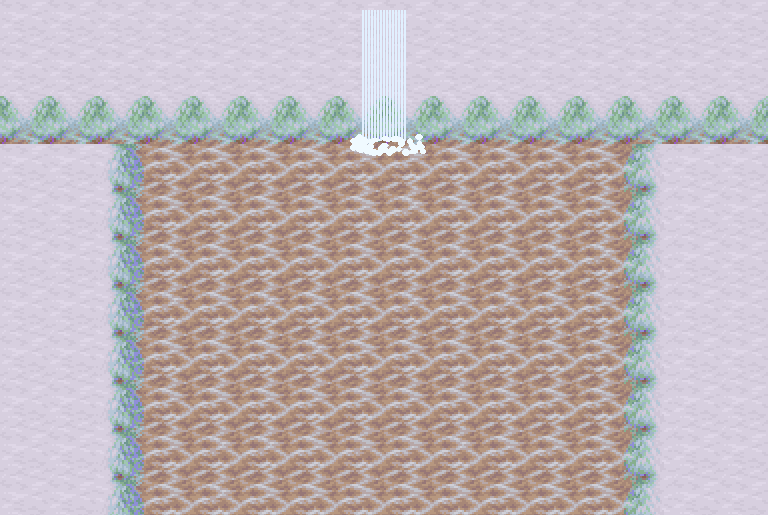
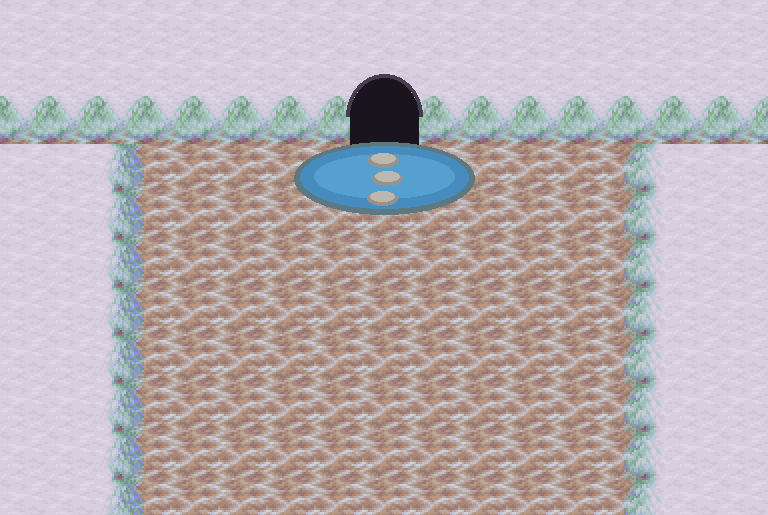
Interfaz: pantalla más grande, información dentro

Changed region(s): [[0.375, 0.0, 0.625, 0.435]]

diff --git a/client/js/game.js b/client/js/game.js
@@ -583,7 +583,7 @@ function openHubMenu() {
 function openHubBag() {
   const bag = meta.bag || [];
   if (!bag.length) return openDialog([{ who: '', text: 'Tu bolsa está vacía. Lo que lleves en ella te acompaña a la próxima exploración.' }], openHubMenu);
-  openMenu({ title: `Bolsa ${bag.length}/${bagSizeFor(meta?.rankPts)}`, items: bag.map(n => isMachine(n) ? `${n.slice(0, 2)}: ${n.slice(4)}` : n), onCancel: openHubMenu,
+  openMenu({ title: `Bolsa ${bag.length}/${bagSizeFor(meta?.rankPts)}`, money: meta?.pokes || 0, items: bag.map(n => isMachine(n) ? `${n.slice(0, 2)}: ${n.slice(4)}` : n), onCancel: openHubMenu,
     onSelect: i => openDialog([{ who: '', text: itemInfo(bag[i]) }], openHubBag) });
 }
 function openHubPokemon() {
@@ -2661,7 +2661,7 @@ function itemInfo(name) {
 }
 function openBagMenu() {
   const items = [...state.inventory.map(n => isMachine(n) ? `${n.slice(0, 2)}: ${n.slice(4)}` : n), state.player.held ? `[Equipado] ${state.player.held} — quitar` : '[Nada equipado]'];   // las máquinas, con su disco
-  openMenu({ title: `Bolsa ${state.inventory.length}/${bagSizeFor(meta?.rankPts)}`, items, onSelect: j => {
+  openMenu({ title: `Bolsa ${state.inventory.length}/${bagSizeFor(meta?.rankPts)}`, money: state.runPokes || 0, items, onSelect: j => {
     if (j < state.inventory.length) return openItemMenu(j);
     if (state.player.held && state.inventory.length < bagSizeFor(meta?.rankPts)) { state.inventory.push(state.player.held); say(`Te quitas ${state.player.held}.`); state.player.held = null; }
     render();
@@ -2822,7 +2822,7 @@ function applyScale() {
   else if (pref === 'fit') {
     // lo más grande que quepa: ancho libre junto al panel lateral y alto libre entre cabecera y pie
     const aside = document.querySelector('#screen-game aside'), head = document.querySelector('#screen-game header'), foot = document.querySelector('#screen-game footer');
-    const freeW = window.innerWidth - (aside?.offsetWidth || 0) - 60, freeH = window.innerHeight - (head?.offsetHeight || 0) - (foot?.offsetHeight || 0) - 40;
+    const fuera = infoMode() === 'fuera', freeW = window.innerWidth - (fuera ? (aside?.offsetWidth || 0) + 60 : 24), freeH = window.innerHeight - (head?.offsetHeight || 0) - (foot?.offsetHeight || 0) - (fuera ? 40 : 16);
     s = Math.max(1, Math.min(freeW / LOG.w, freeH / LOG.h));
   } else s = +pref;
   canvas.style.width = Math.round(LOG.w * s) + 'px'; canvas.style.height = Math.round(LOG.h * s) + 'px';
@@ -2849,10 +2849,15 @@ const isVisibleNow = (x, y) => {
 };
 // radio de luz en los pasillos (en las salas se ve la sala entera)
 function corridorSight() { return WEATHER[state.weather]?.sight ?? CFG.corridorSight; }
-function render() { if (!state.player && state.scene === 'dungeon') return; ctx.setTransform(RK, 0, 0, RK, 0, 0); state.scene === 'hub' ? renderHub() : renderDungeon(); drawFlash(); renderFeed(); renderMenu(); renderDialog(); renderHud(); }
+function render() { if (!state.player && state.scene === 'dungeon') return; ctx.setTransform(RK, 0, 0, RK, 0, 0); state.scene === 'hub' ? renderHub() : renderDungeon(); drawInfoHud(); drawFlash(); renderFeed(); renderMenu(); renderDialog(); renderHud(); }
 // ---- mensajes dentro de la pantalla (como en Mundo Misterioso): recuadro abajo que se desvanece a los pocos segundos ----
 const FEED_MS = 4200, FEED_FADE = 600;
+// dónde va la información (PS, Barriga, mensajes…): dentro de la pantalla del juego (por defecto, como en el original), fuera u oculta
+const infoMode = () => { try { return localStorage.getItem('mm_info') || 'dentro'; } catch { return 'dentro'; } };
+const applyInfoMode = () => { const m = infoMode(); for (const k of ['dentro', 'fuera', 'oculta']) document.body.classList.toggle('info-' + k, m === k); };
+const MONEY_IMG = Object.assign(new Image(), { src: 'client/assets/items/money.png' });   // el icono de los Pokés (PMDCollab)
 const logInside = () => {   // por defecto, fuera (debajo del juego, como la pantalla de abajo de la DS); con el móvil tumbado no hay sitio: dentro
+  if (infoMode() !== 'fuera') return true;   // con la información dentro (o oculta), los mensajes también van dentro
   if (document.body.classList.contains('touch-on') && window.innerWidth > window.innerHeight) return true;
   try { return localStorage.getItem('mm_log') === 'inside'; } catch { return false; }
 };
@@ -2894,6 +2899,22 @@ function drawStatusIcon(e, px, py, tile) {
 }
 const STAT_NAMES_DE = { atk: 'el Ataque', def: 'la Defensa', spa: 'el At. Esp.', spd: 'la Def. Esp.' };   // «sube el Ataque de…»
 const AREA_NAMES = { plaza: 'Plaza del gremio', gremio: 'Gremio de Pidgeot', descanso: 'Zona de descanso', mercado: 'Mercado', aldea: 'Aldea', fuente: 'Fuente de la Evolución' };   // nombre de cada zona (etiqueta del mapa y cabecera)
+function drawInfoHud() {
+  if (infoMode() !== 'dentro' || state.scene !== 'dungeon' || !state.player || state.menu || state.cut) return;
+  const p = state.player, s = UIS(), fs = Math.round(12 * s), font = DIALOG_FONT();
+  ctx.save(); ctx.font = `${fs}px ${font}`; ctx.textBaseline = 'top';
+  const txt = (t, x, y, c = '#fff') => { ctx.fillStyle = 'rgba(0,0,0,.8)'; ctx.fillText(t, x + 1, y + 1); ctx.fillStyle = c; ctx.fillText(t, x, y); return ctx.measureText(t).width; };
+  const bar = (x, y, w, k, col) => { const h = Math.round(6 * s); ctx.fillStyle = 'rgba(0,0,0,.7)'; ctx.fillRect(x - 1, y - 1, w + 2, h + 2); ctx.fillStyle = '#383838'; ctx.fillRect(x, y, w, h); ctx.fillStyle = col; ctx.fillRect(x, y, w * Math.max(0, Math.min(1, k)), h); };
+  let x = 10, y = 8;
+  x += txt(`${state.dungeonDef?.floors === Infinity ? '' : 'B'}${state.floor}F`, x, y, '#f8d848') + 14 * s;
+  x += txt(`Nv ${p.level}`, x, y) + 14 * s;
+  x += txt('PS', x, y, '#f8d848') + 5 * s; x += txt(`${Math.max(0, Math.ceil(p.hp))}/${p.maxHp}`, x, y) + 8 * s;
+  const k = p.hp / p.maxHp; bar(x, y + fs / 2 - 3 * s, Math.round(100 * s), k, k > 0.5 ? '#58d858' : k > 0.25 ? '#f8d030' : '#f05030');
+  y += fs + 6 * s; x = 10; const mb = p.maxBelly || 100;
+  x += txt('Barriga', x, y, '#f8b048') + 6 * s; x += txt(`${Math.round(p.belly)}/${mb}`, x, y) + 8 * s;
+  bar(x, y + fs / 2 - 3 * s, Math.round(60 * s), p.belly / mb, p.belly / mb > 0.2 ? '#f8a838' : '#f05030');
+  ctx.restore();
+}
 function renderFeed() {
   if (!logInside() || state.dialog || state.scene !== 'dungeon') return;   // solo en las mazmorras (en la aldea del original no hay registro)
   const now = performance.now(), items = (state.feed || []).filter(f => now - f.t < FEED_MS);
@@ -3216,6 +3237,11 @@ function renderMenu() {
   const tw = Math.min(w, ctx.measureText(title).width + pad * 2);
   pmdBox(x, y, tw, tabH + 6, 5);
   ctx.fillStyle = '#f8d848'; ctx.fillText(title, x + pad, y + tabH / 2 + 2, tw - pad * 2);
+  if (m.money !== undefined) {   // los Pokés, con su moneda, en una pestaña a la derecha
+    const mt = `${m.money}`, isz = Math.round(16 * s), mw = ctx.measureText(mt).width + isz + pad * 2 + 6 * s, mx = x + w - mw;
+    pmdBox(mx, y, mw, tabH + 6, 5); if (MONEY_IMG.complete) { ctx.imageSmoothingEnabled = false; ctx.drawImage(MONEY_IMG, mx + pad, y + tabH / 2 + 2 - isz / 2, isz, isz); }
+    ctx.fillStyle = '#ffffff'; ctx.fillText(mt, mx + pad + isz + 6 * s, y + tabH / 2 + 2);
+  }
   // caja de opciones
   const by = y + tabH + 2;
   pmdBox(x, by, w, h);
@@ -3447,6 +3473,8 @@ function setupMusicControl() {
   document.getElementById('set-version').textContent = VERSION_LABEL;
   const dv = document.getElementById('opt-dview');
   if (dv) { dv.value = dungeonWide() ? 'wide' : 'near'; dv.addEventListener('change', () => { try { localStorage.setItem('mm_dview', dv.value); } catch {} dv.blur(); render(); }); }
+  const inf = document.getElementById('opt-info');
+  if (inf) { inf.value = infoMode(); applyInfoMode(); inf.addEventListener('change', () => { try { localStorage.setItem('mm_info', inf.value); } catch {} applyInfoMode(); document.body.classList.toggle('log-inside', logInside()); inf.blur(); applyScale(); }); }
   const lg = document.getElementById('opt-log');
   if (lg) {
     lg.value = logInside() ? 'inside' : 'outside'; document.body.classList.toggle('log-inside', logInside());

diff --git a/client/css/style.css b/client/css/style.css
@@ -390,3 +390,20 @@ body.log-inside #log { display: none; }
 #log { background: var(--pmd-navy); color: #f0f0f0; font-family: var(--pmd-font); border-radius: 8px; padding: 8px 12px;
   box-shadow: inset 0 0 0 2px #f0f0f0, inset 0 0 0 4px var(--pmd-navy), inset 0 0 0 5px var(--pmd-inner); margin-top: 6px; }
 #log p:not(:first-child) { color: #9aa6d0; }
+
+/* Información dentro de la pantalla del juego (por defecto): sin paneles alrededor; la pantalla, lo más grande posible */
+body.in-game:not(.info-fuera) #screen-game header .stat,
+body.in-game:not(.info-fuera) #screen-game aside,
+body.in-game:not(.info-fuera) #screen-game footer #log,
+body.in-game:not(.info-fuera):not(.touch-on) #screen-game footer #movebar,
+body.in-game:not(.info-fuera):not(.touch-on) #screen-game .help { display: none !important; }
+body.in-game:not(.info-fuera):not(.touch-on) #screen-game header { padding-top: 4px; padding-bottom: 4px; }
+/* (información dentro) la pantalla, centrada; la cabecera, solo el logo a un lado y las opciones y «Salir» al otro */
+body.in-game:not(.info-fuera):not(.touch-on) #screen-game main { display: flex; justify-content: center; align-items: flex-start; grid-template-columns: none; }
+body.in-game:not(.info-fuera) #screen-game header { display: flex; justify-content: space-between; align-items: center; }
+body.in-game:not(.info-fuera) #screen-game header .brand { margin-right: auto; }
+/* (móvil en vertical) la pantalla, centrada en el hueco que queda sobre los mandos */
+body.in-game.touch-on:not(.info-fuera) #screen-game main { flex: 1 1 auto; display: flex; align-items: center; justify-content: center; }
+body.in-game:not(.info-fuera) #screen-game header .settings { margin-left: auto; }
+body.in-game:not(.info-fuera) #screen-game header #logout { margin-left: 12px; }
+body.in-game.touch-on:not(.info-fuera) #screen-game { min-height: 100dvh; box-sizing: border-box; }

diff --git a/index.html b/index.html
@@ -93,6 +93,7 @@
         <label class="set-row"><span>Enviar datos de juego (beta)</span><input type="checkbox" id="opt-telemetry"></label>
         <label class="set-row"><span>Mando en pantalla</span><input type="checkbox" id="opt-touch"></label>
         <label class="set-row"><span>Vista de mazmorra</span><select id="opt-dview"><option value="near">Cercana</option><option value="wide">Amplia</option></select></label>
+        <label class="set-row"><span>Información (PS, Barriga…)</span><select id="opt-info"><option value="dentro">Dentro de la pantalla</option><option value="fuera">Fuera de la pantalla</option><option value="oculta">Oculta</option></select></label>
         <label class="set-row"><span>Mensajes</span><select id="opt-log"><option value="inside">En la pantalla</option><option value="outside">Fuera de la pantalla</option></select></label>
         <p class="set-foot" id="set-version"></p>
       </div>
